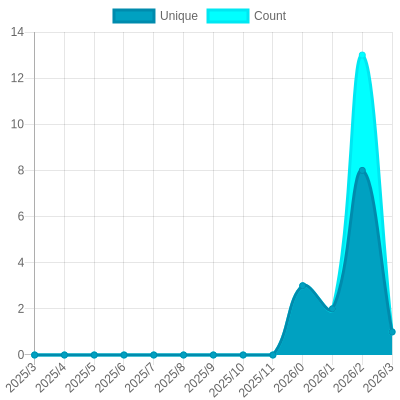
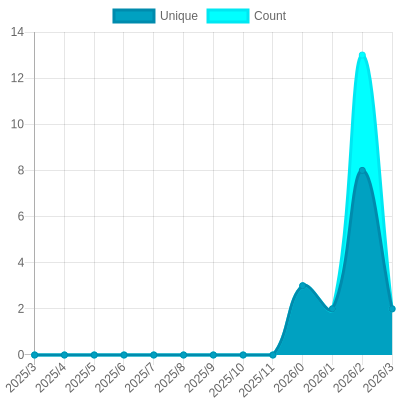
Update views

Changed region(s): [[0.93, 0.24, 0.99, 0.84], [0.9, 0.15, 0.93, 0.18]]

diff --git a/README.md b/README.md
@@ -26,13 +26,13 @@ The project created and maintained by [gayanvoice](https://github.com/gayanvoice
 			</a>
 		</td>
 		<td>
-			2025/4/5 12:38 AM UTC
+			2025/4/6 12:00 AM UTC
 		</td>
 		<td>
-			69
+			72
 		</td>
 		<td>
-			<img alt="Response time graph" src="https://github.com/zhexilian/viewer/raw/master/graph/823497380/small/year.png" height="20"> 221
+			<img alt="Response time graph" src="https://github.com/zhexilian/viewer/raw/master/graph/823497380/small/year.png" height="20"> 226
 		</td>
 	</tr>
 	<tr>
@@ -42,7 +42,7 @@ The project created and maintained by [gayanvoice](https://github.com/gayanvoice
 			</a>
 		</td>
 		<td>
-			2025/4/5 12:38 AM UTC
+			2025/4/6 12:42 AM UTC
 		</td>
 		<td>
 			85
@@ -58,7 +58,7 @@ The project created and maintained by [gayanvoice](https://github.com/gayanvoice
 			</a>
 		</td>
 		<td>
-			2025/4/5 12:38 AM UTC
+			2025/4/6 12:42 AM UTC
 		</td>
 		<td>
 			14
@@ -74,18 +74,18 @@ The project created and maintained by [gayanvoice](https://github.com/gayanvoice
 			</a>
 		</td>
 		<td>
-			2025/4/5 12:00 AM UTC
+			2025/4/6 12:00 AM UTC
 		</td>
 		<td>
-			25
+			27
 		</td>
 		<td>
-			<img alt="Response time graph" src="https://github.com/zhexilian/viewer/raw/master/graph/949845026/small/year.png" height="20"> 213
+			<img alt="Response time graph" src="https://github.com/zhexilian/viewer/raw/master/graph/949845026/small/year.png" height="20"> 215
 		</td>
 	</tr>
 </table>
 
-<small><i>Last updated on 2025/4/7 6:12 PM UTC</i></small>
+<small><i>Last updated on 2025/4/8 12:39 AM UTC</i></small>
 
 ## ✂Copy and 📋 Paste
 ### Total Views Badge

diff --git a/readme/769948634/year.md b/readme/769948634/year.md
@@ -23,10 +23,10 @@
 			<code>2025/4/1</code>
 		</td>
 		<td>
-			<code>1</code>
+			<code>2</code>
 		</td>
 		<td>
-			<code>1</code>
+			<code>2</code>
 		</td>
 	</tr>
 	<tr>
@@ -164,7 +164,7 @@
 </table>
 
 </details>
-<small><i>Last updated on 2025/4/7 6:11 PM UTC</i></small>
+<small><i>Last updated on 2025/4/8 12:39 AM UTC</i></small>
 
 ## ✂Copy and 📋 Paste
 ### SVG Badge

diff --git a/readme/745838342/year.md b/readme/745838342/year.md
@@ -164,7 +164,7 @@
 </table>
 
 </details>
-<small><i>Last updated on 2025/4/7 6:11 PM UTC</i></small>
+<small><i>Last updated on 2025/4/8 12:39 AM UTC</i></small>
 
 ## ✂Copy and 📋 Paste
 ### SVG Badge

diff --git a/readme/823497380/year.md b/readme/823497380/year.md
@@ -164,7 +164,7 @@
 </table>
 
 </details>
-<small><i>Last updated on 2025/4/7 6:11 PM UTC</i></small>
+<small><i>Last updated on 2025/4/8 12:39 AM UTC</i></small>
 
 ## ✂Copy and 📋 Paste
 ### SVG Badge

diff --git a/readme/949845026/year.md b/readme/949845026/year.md
@@ -164,7 +164,7 @@
 </table>
 
 </details>
-<small><i>Last updated on 2025/4/7 6:11 PM UTC</i></small>
+<small><i>Last updated on 2025/4/8 12:39 AM UTC</i></small>
 
 ## ✂Copy and 📋 Paste
 ### SVG Badge
